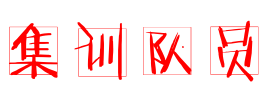
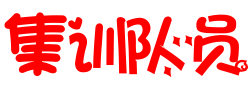
修改称号的进度，一些称号图片的显示。 话说返回一个没有的称号的结束时间_end_time of some title 是 0 ，代表永久。 本地修改一些称号的图片，重启服务器后没有生效，不会是被玩坏了吧？

diff --git a/src/entity/Title/TitleSet.java b/src/entity/Title/TitleSet.java
@@ -40,6 +40,9 @@ public class TitleSet implements IBeanResultSetCreate{
     public synchronized int getTitleJd(int id){
         if(!titles.containsKey(id)) return 0;
         title_value value = titles.get(id);
+        BaseTitle title = BaseTitle.getTitleByID(id);
+        if(value.jd > title.getTotal_jd() ) //添加新称号，可能进度超过总进度，此时如果进度加一，相当于重新获得
+        value.jd = title.getTotal_jd();
         Timestamp time = value.clear_time;
         if(time == null){
             return value.jd;

diff --git a/src/entity/Title/AllTimeCompute/BaseTimeCompute.java b/src/entity/Title/AllTimeCompute/BaseTimeCompute.java
@@ -77,7 +77,7 @@ public class BaseTimeCompute {
             }
             case "end_time_of_some_title":{
                 Timestamp time = event.user.titleSet.getTitleValue((int)args.get(0)).clear_time;
-                if(time==null) return 0;
+                if(time==null) return 0;  //如果称号不存在，返回的称号的结束时间是永久？
                 return time.getTime();
             }
             case "time_compute":{

diff --git a/src/action/AiAction.java b/src/action/AiAction.java
@@ -66,8 +66,8 @@ public class AiAction extends BaseAction {
         return introduce;
     }
 
-    public  String addAiInfo(){
-        return AiSQL.addAiInfo(user,game_id,aiName,code,introduce);
+    public String addAiInfo(){
+         return AiSQL.getInstance().addAiInfo(user,game_id,aiName,code,introduce);
     }
 
 }
